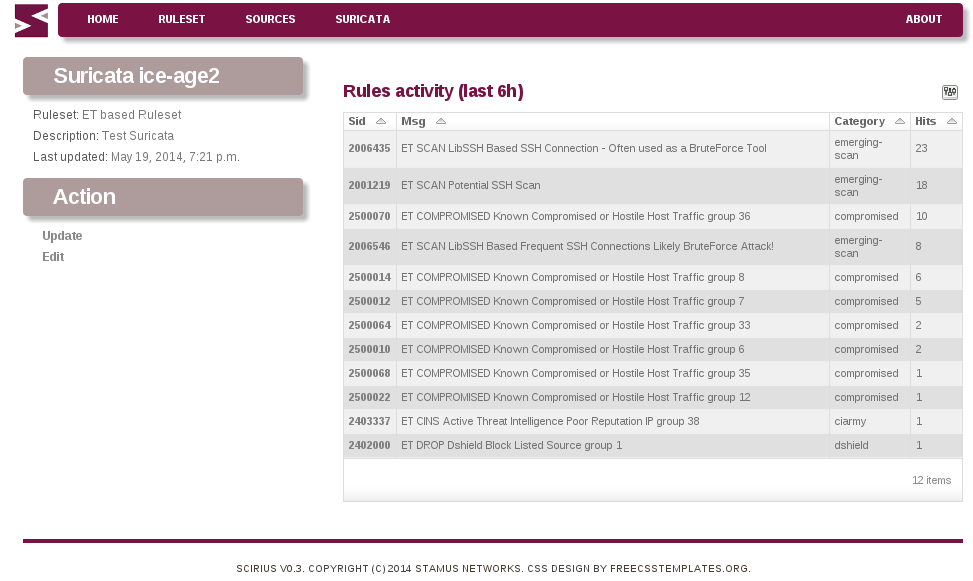
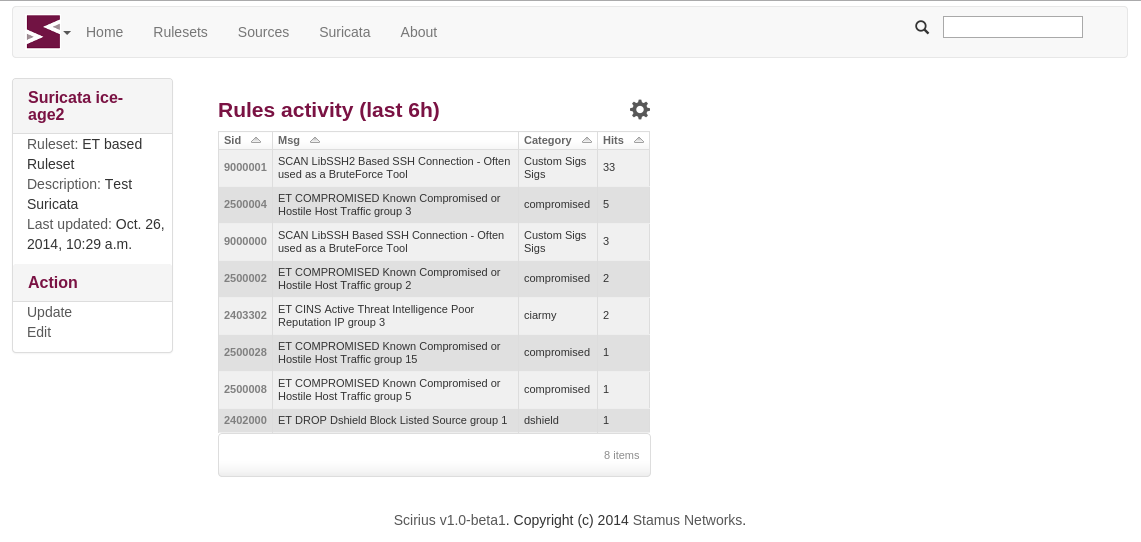
doc: detail more features
Add information about Kibana link and update screenshots to
latest version.

diff --git a/README.rst b/README.rst
@@ -106,6 +106,12 @@ about signatures displayed in the page showing information about Suricata:
     :alt: elasticsearch info in scirius
     :align: center
 
+You can also get graph and details about a specific rule:
+
+.. image:: https://github.com/StamusNetworks/scirius/raw/master/doc/images/rule-detail.png
+    :alt: rule info in scirius
+    :align: center
+
 To setup Elasticsearch connection, you can edit ``settings.py`` or create a
 ``local_settings.py`` file under ``scirius`` directory to setup the feature.
 Elasticsearch is activated if a variable names ``USE_ELASTICSEARCH`` is set
@@ -120,6 +126,21 @@ to ``local_settings.py`` ::
 
 Please note, that the name of the Suricata (set during edition of the object) must
 be equal to the ``host`` key present in Elasticsearch events.
+
+Link with Kibana
+----------------
+
+If you are using Kibana, it is possible to get links to your dashboards by clicking the
+top left icon:
+
+.. image:: https://github.com/StamusNetworks/scirius/raw/master/doc/images/kibana-link.png
+    :alt: kibana dropdown menu
+    :align: center
+
+To activate the feature, you need to edit your `local_settings.py` file: ::
+
+ KIBANA_URL = "http://localhost/"
+ USE_KIBANA = True
 
 Usage
 =====
